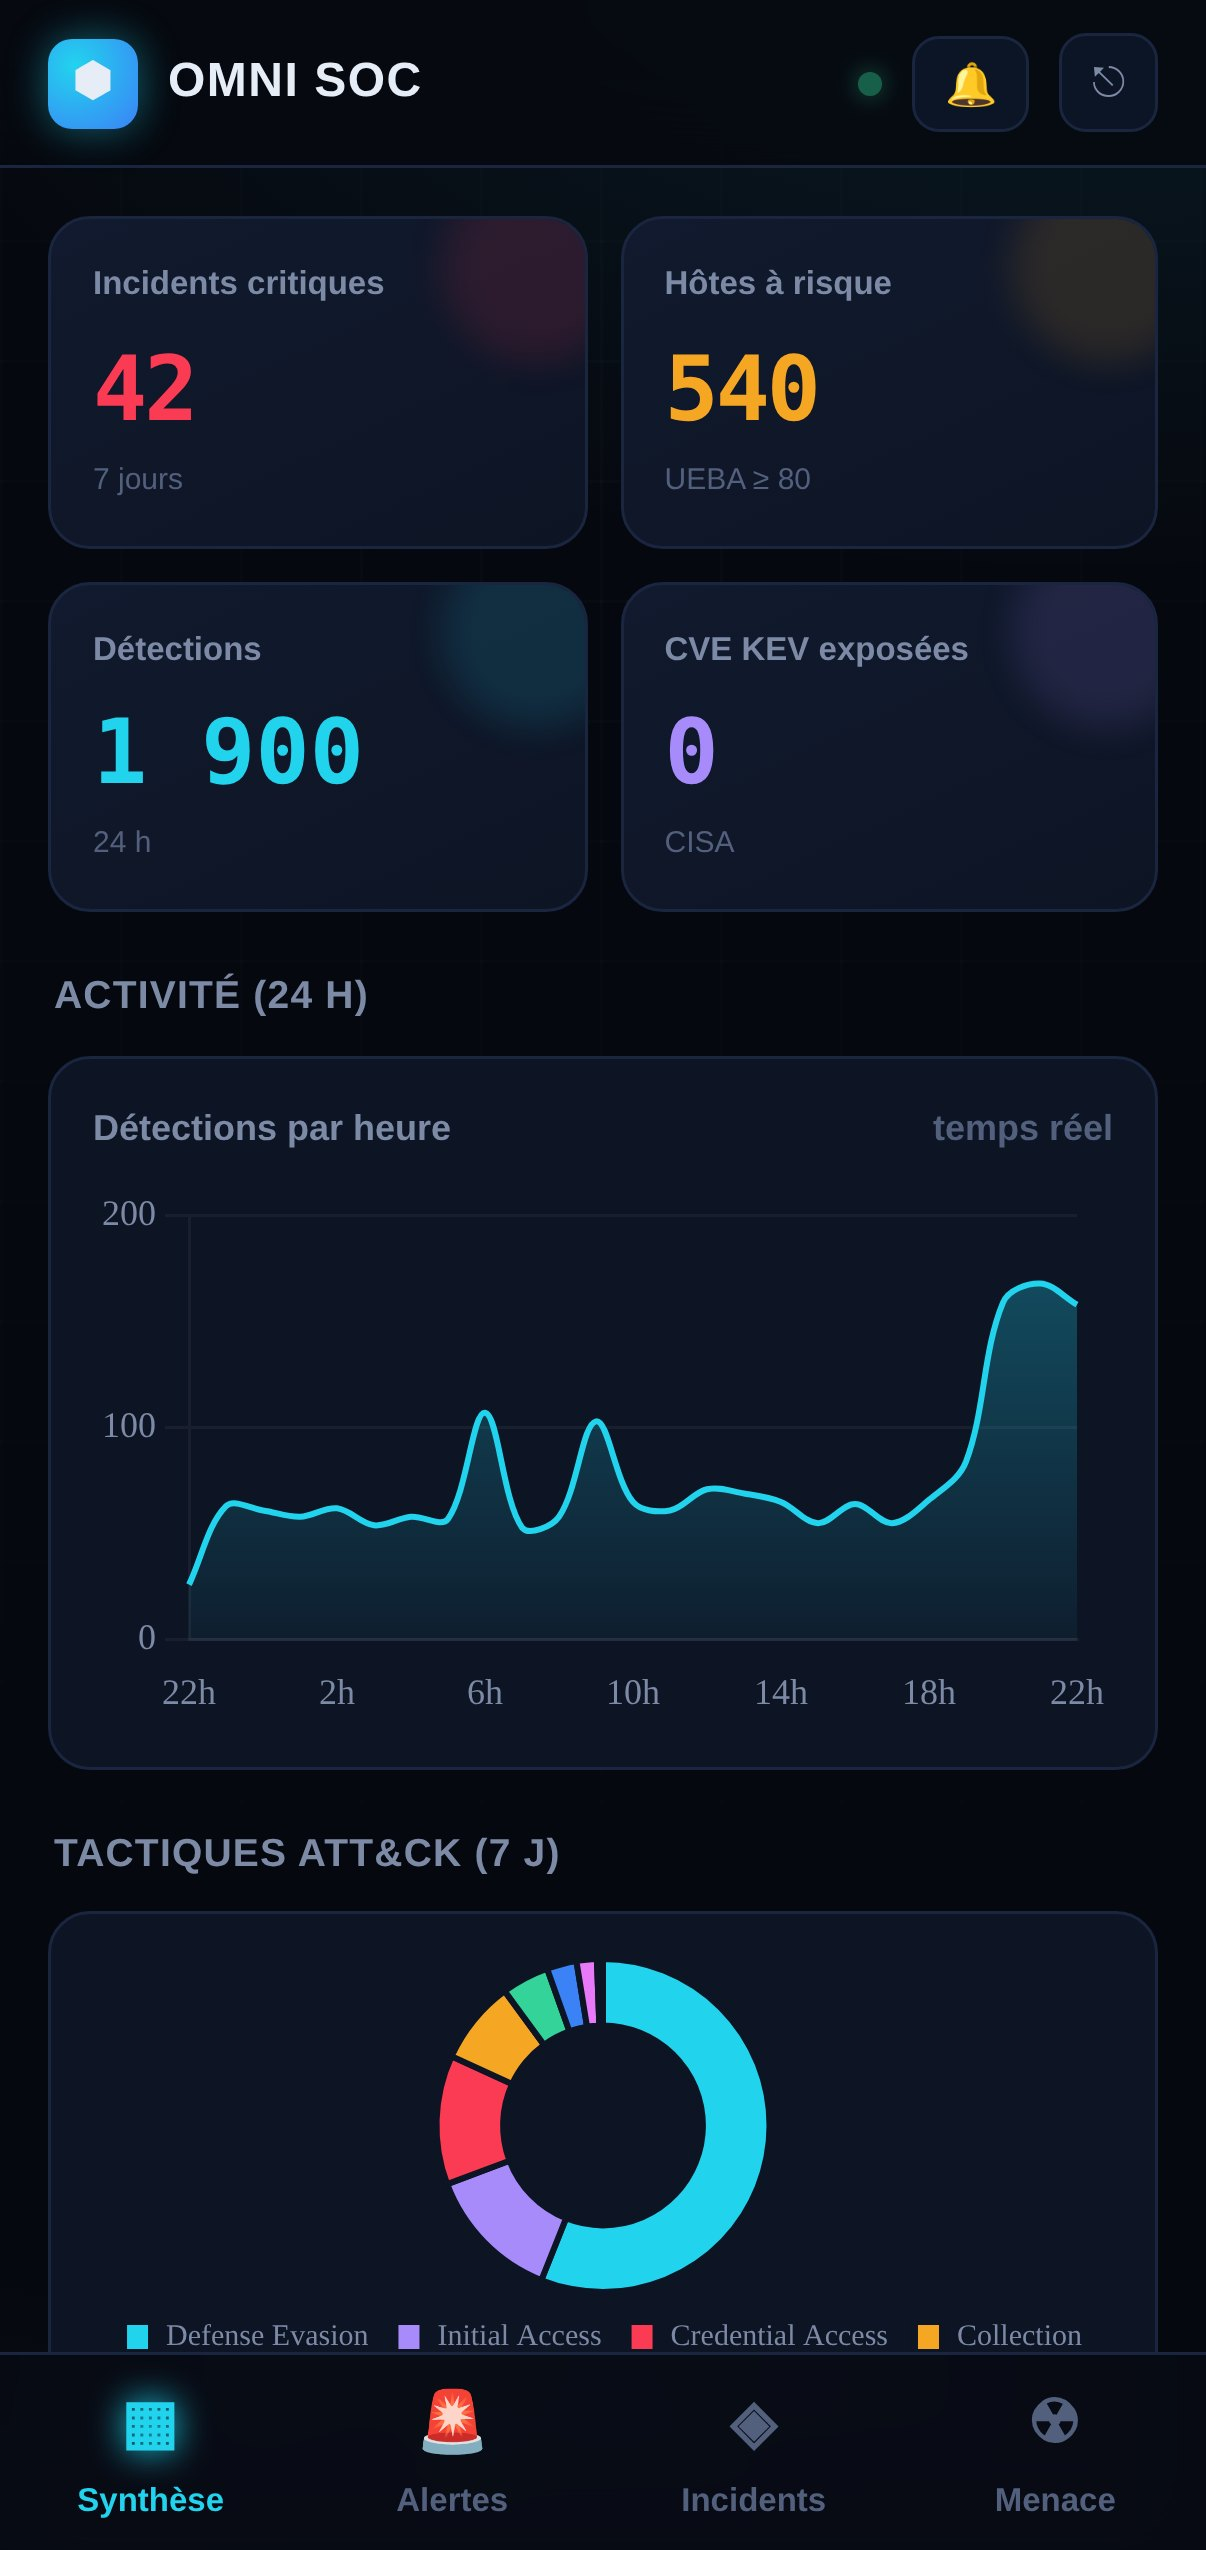
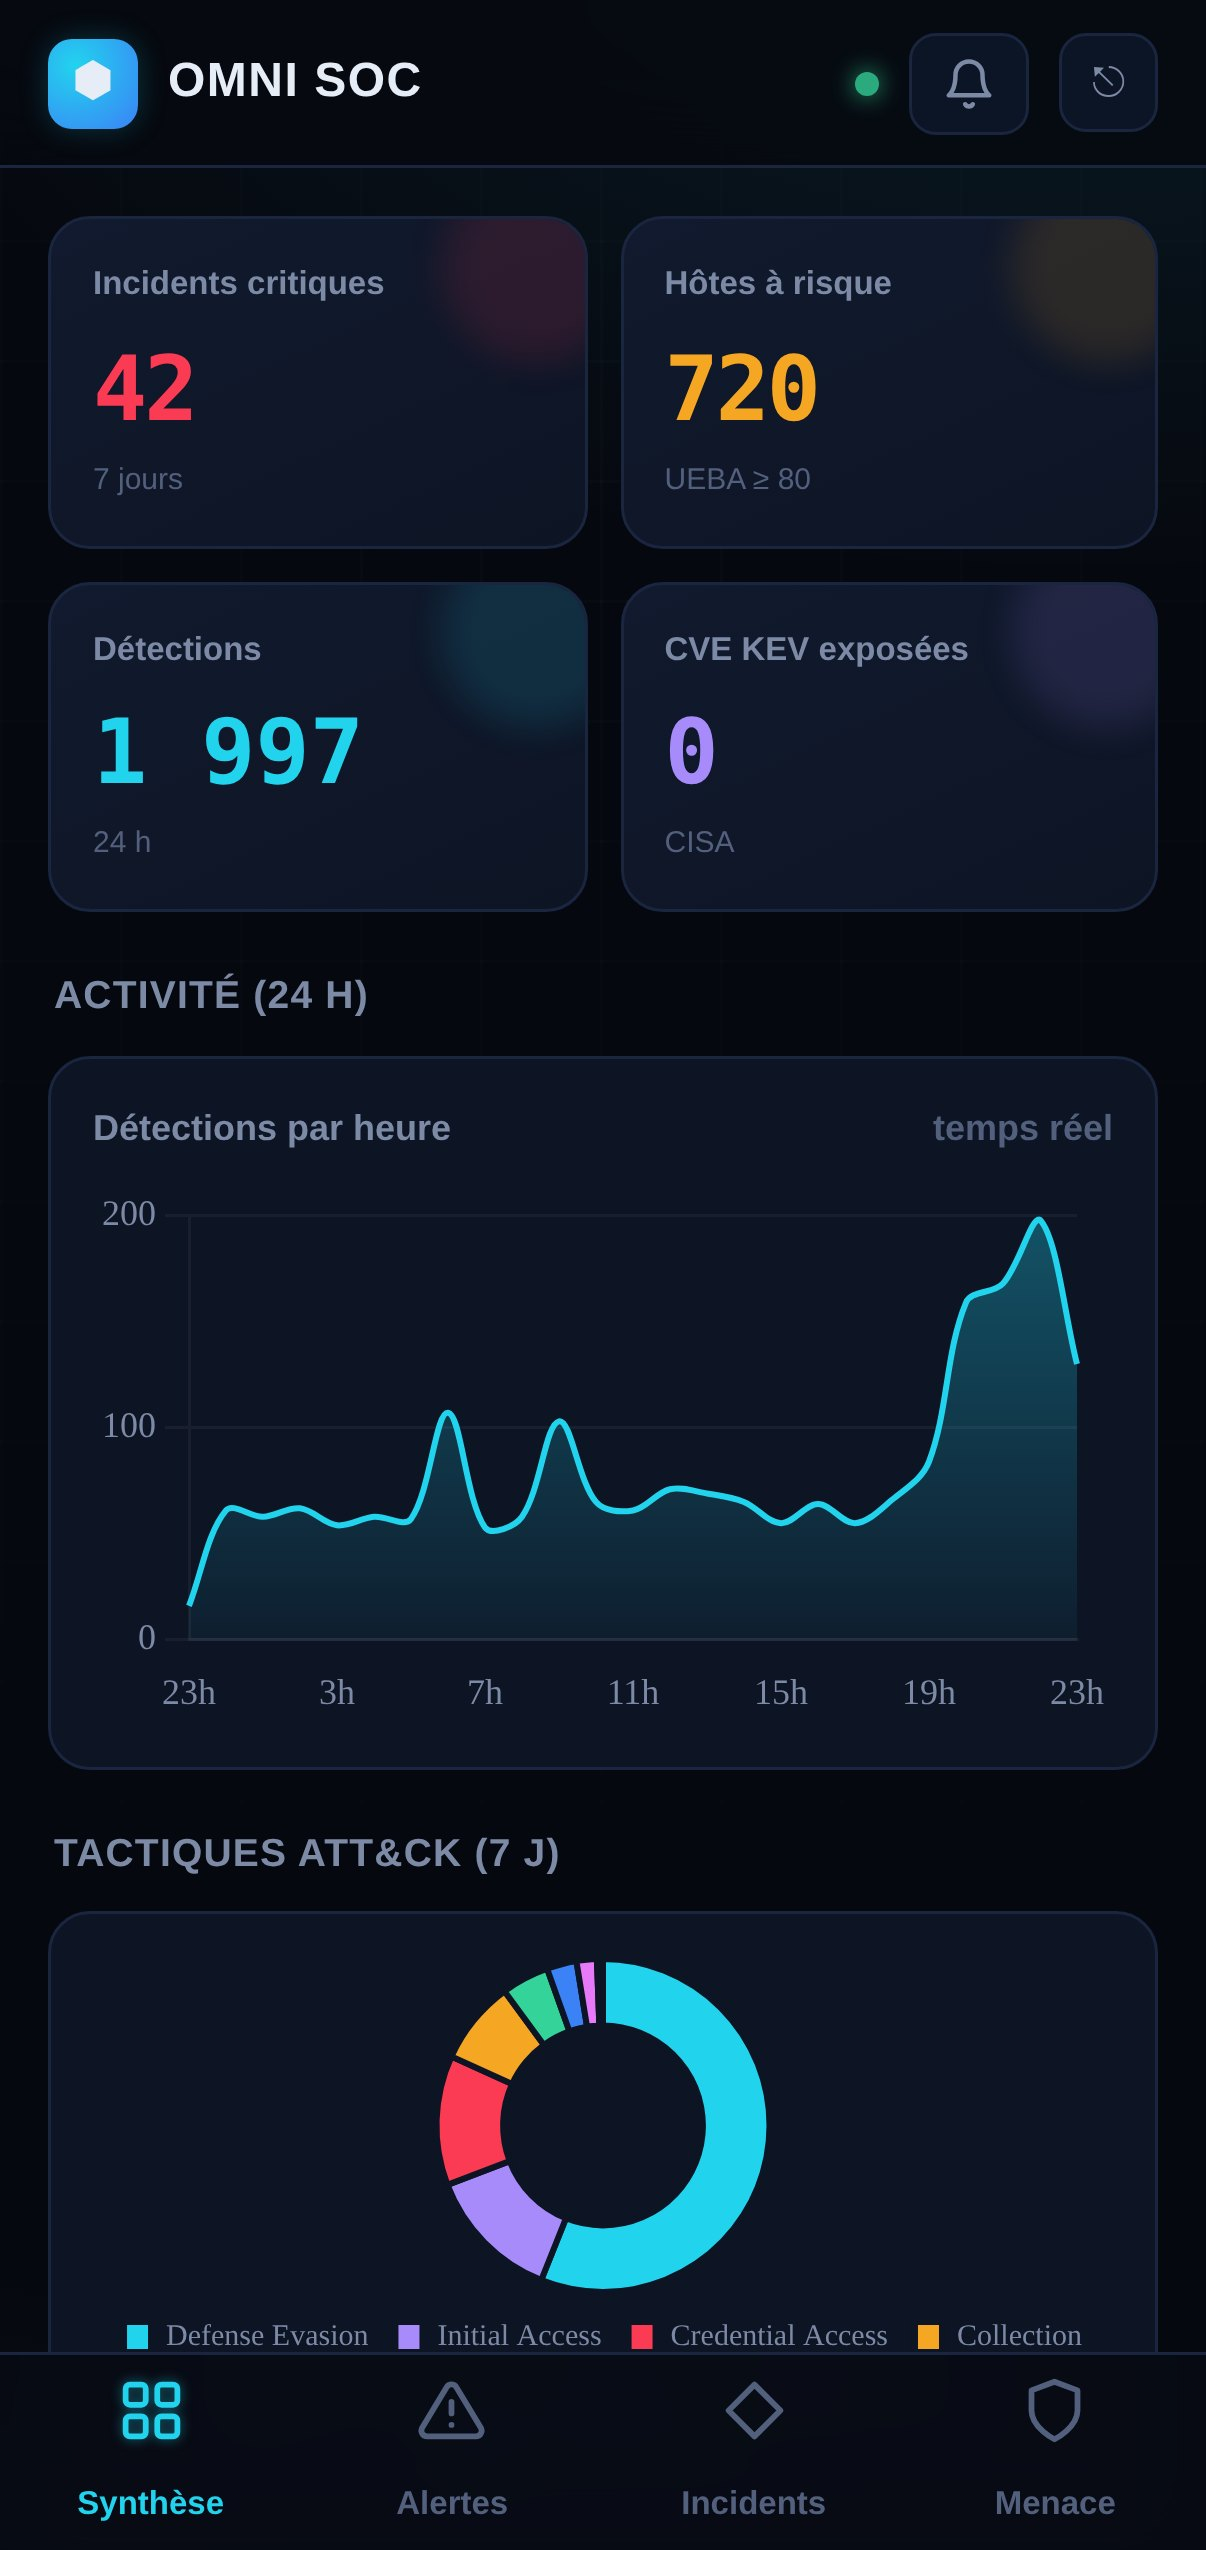
PWA mobile : professionnalisation (emoji -> icones SVG, neon attenue) + captures

diff --git a/mobile/www/index.html b/mobile/www/index.html
@@ -24,13 +24,15 @@
     background-size:40px 40px;mask:radial-gradient(circle at 50% 20%,#000,transparent 95%)}
   .mono{font-family:ui-monospace,'SF Mono',Consolas,monospace}
   .hide{display:none!important}
+  .svi{width:18px;height:18px;stroke:currentColor;fill:none;stroke-width:2;stroke-linecap:round;stroke-linejoin:round;display:inline-block;vertical-align:-3px}
+  nav a .ic .svi{width:23px;height:23px;vertical-align:0}
 
   /* LOGIN */
   #login{position:fixed;inset:0;display:flex;align-items:center;justify-content:center;padding:24px;z-index:10}
   .lcard{width:100%;max-width:360px;background:linear-gradient(180deg,var(--card2),var(--card));
-    border:1px solid var(--bd);border-radius:18px;padding:32px 24px;box-shadow:0 0 60px rgba(34,211,238,.10)}
+    border:1px solid var(--bd);border-radius:18px;padding:32px 24px;box-shadow:0 18px 50px -20px rgba(0,0,0,.7)}
   .logo{width:54px;height:54px;border-radius:14px;margin:0 auto 14px;display:grid;place-items:center;font-size:28px;
-    background:radial-gradient(circle at 30% 30%,var(--cy),var(--blu));box-shadow:0 0 26px rgba(34,211,238,.5)}
+    background:radial-gradient(circle at 30% 30%,var(--cy),var(--blu));box-shadow:0 0 18px rgba(34,211,238,.28)}
   .lcard h1{font-size:22px;text-align:center;letter-spacing:.5px}
   .lcard .sub{color:var(--mut);text-align:center;font-size:12px;margin:4px 0 20px}
   input{width:100%;background:#070b15;border:1px solid var(--bd);border-radius:11px;color:var(--fg);
@@ -46,7 +48,7 @@
     display:flex;align-items:center;gap:10px;background:rgba(6,8,15,.82);backdrop-filter:blur(12px);
     border-bottom:1px solid var(--bd);z-index:5}
   .appbar .mark{width:30px;height:30px;border-radius:8px;display:grid;place-items:center;font-size:16px;
-    background:radial-gradient(circle at 30% 30%,var(--cy),var(--blu));box-shadow:0 0 14px rgba(34,211,238,.45)}
+    background:radial-gradient(circle at 30% 30%,var(--cy),var(--blu));box-shadow:0 0 10px rgba(34,211,238,.22)}
   .appbar b{font-size:16px;letter-spacing:.5px}.spacer{flex:1}
   .dot{width:8px;height:8px;border-radius:50%;background:var(--grn);box-shadow:0 0 8px var(--grn);animation:pulse 2s infinite}
   @keyframes pulse{50%{opacity:.4}}
@@ -96,7 +98,7 @@
   nav a{flex:1;display:flex;flex-direction:column;align-items:center;justify-content:center;gap:3px;
     color:var(--dim);text-decoration:none;font-size:11px;font-weight:600}
   nav a .ic{font-size:20px}
-  nav a.on{color:var(--cy)}nav a.on .ic{filter:drop-shadow(0 0 6px var(--cy))}
+  nav a.on{color:var(--cy)}nav a.on .ic{filter:drop-shadow(0 0 2px rgba(34,211,238,.5))}
 
   /* DETAIL SHEET */
   #sheet{position:fixed;inset:0;z-index:20;display:none}
@@ -137,6 +139,14 @@
 </style>
 </head>
 <body>
+<svg width="0" height="0" style="position:absolute" aria-hidden="true">
+  <symbol id="i-home" viewBox="0 0 24 24"><rect x="3" y="3" width="7" height="7" rx="1.5"/><rect x="14" y="3" width="7" height="7" rx="1.5"/><rect x="3" y="14" width="7" height="7" rx="1.5"/><rect x="14" y="14" width="7" height="7" rx="1.5"/></symbol>
+  <symbol id="i-alert" viewBox="0 0 24 24"><path d="M10.3 3.9 1.8 18a2 2 0 0 0 1.7 3h17a2 2 0 0 0 1.7-3L13.7 3.9a2 2 0 0 0-3.4 0z"/><path d="M12 9v4"/><path d="M12 17h.01"/></symbol>
+  <symbol id="i-inc" viewBox="0 0 24 24"><path d="M12 3 21 12 12 21 3 12z"/></symbol>
+  <symbol id="i-threat" viewBox="0 0 24 24"><path d="M12 22s8-4 8-10V5l-8-3-8 3v7c0 6 8 10 8 10z"/></symbol>
+  <symbol id="i-bell" viewBox="0 0 24 24"><path d="M18 8a6 6 0 0 0-12 0c0 7-3 9-3 9h18s-3-2-3-9"/><path d="M13.7 21a2 2 0 0 1-3.4 0"/></symbol>
+  <symbol id="i-check" viewBox="0 0 24 24"><path d="M20 6 9 17l-5-5"/></symbol>
+</svg>
 <div id="login">
   <form class="lcard" onsubmit="login(event)">
     <div class="logo">⬢</div>
@@ -154,7 +164,7 @@
     <div class="mark">⬢</div><b>OMNI SOC</b>
     <span class="spacer"></span>
     <span class="dot" title="opérationnel"></span>
-    <button class="ibtn" id="pushb" onclick="enablePush()">🔔</button>
+    <button class="ibtn" id="pushb" onclick="enablePush()" aria-label="Activer les notifications"><svg class="svi"><use href="#i-bell"></use></svg></button>
     <button class="ibtn" onclick="logout()">⎋</button>
   </div>
 
@@ -177,10 +187,10 @@
   </main>
 
   <nav id="nav">
-    <a class="on" data-p="home"><span class="ic">▦</span>Synthèse</a>
-    <a data-p="alerts"><span class="ic">🚨</span>Alertes</a>
-    <a data-p="inc"><span class="ic">◈</span>Incidents</a>
-    <a data-p="threat"><span class="ic">☢</span>Menace</a>
+    <a class="on" data-p="home"><span class="ic"><svg class="svi"><use href="#i-home"></use></svg></span>Synthèse</a>
+    <a data-p="alerts"><span class="ic"><svg class="svi"><use href="#i-alert"></use></svg></span>Alertes</a>
+    <a data-p="inc"><span class="ic"><svg class="svi"><use href="#i-inc"></use></svg></span>Incidents</a>
+    <a data-p="threat"><span class="ic"><svg class="svi"><use href="#i-threat"></use></svg></span>Menace</a>
   </nav>
 </div>
 
@@ -188,6 +198,7 @@
 
 <script>
 const API="/m/api",$=s=>document.querySelector(s);
+const ic=n=>'<svg class="svi"><use href="#i-'+n+'"></use></svg>';
 const j=(u,o)=>fetch(API+u,{credentials:"same-origin",...o}).then(r=>{if(r.status===401)throw"auth";return r.json()});
 const esc=s=>(s==null?"":""+s).replace(/[<>&]/g,c=>({"<":"&lt;",">":"&gt;","&":"&amp;"}[c]));
 const nice=s=>esc((s||"").toString().replace(/_/g," ").replace(/\b\w/g,c=>c.toUpperCase()));
@@ -236,7 +247,7 @@ function renderTac(d){mk("cTac",{type:"doughnut",data:{labels:d.map(x=>nice(x.k)
   options:{maintainAspectRatio:false,cutout:"60%",plugins:{legend:{position:"bottom",labels:{boxWidth:9,padding:9,font:{size:10}}}}}});}
 
 function renderFeed(id,list,kind){const el=$("#"+id);
-  if(!list.length){el.innerHTML='<div class="empty">'+(kind==="inc"?"Aucun incident corrélé ✅":"RAS ✅")+'</div>';return;}
+  if(!list.length){el.innerHTML='<div class="empty">'+ic('check')+' '+(kind==="inc"?"Aucun incident corrélé":"RAS")+'</div>';return;}
   el.innerHTML=list.map((x,i)=>{
     const c=kind==="inc"?sevClass(x.severity):(x.priority==3?"critical":x.priority==2?"high":"medium");
     const badge=kind==="inc"?esc((x.severity||"?").toUpperCase()):"P"+(x.priority||"-");
@@ -294,7 +305,7 @@ function renderThreat(r){r=r||{};
   renderRiskList("uebaList",r.ueba_top||[],"ueba");
 }
 function renderRiskList(id,list,kind){const el=$("#"+id);if(!el)return;
-  if(!list.length){el.innerHTML='<div class="empty">Aucune anomalie ✅</div>';return;}
+  if(!list.length){el.innerHTML='<div class="empty">'+ic('check')+' Aucune anomalie</div>';return;}
   el.innerHTML=list.map(x=>{const sc=+x.score||0;
     const sub=kind==="ml"?(x.reason||x.type||""):(x.factor||"");
     return '<div class="rrow"><div class="rtop"><span class="rent">'+esc((x.entity||"—").split("\\").pop())
@@ -303,7 +314,7 @@ function renderRiskList(id,list,kind){const el=$("#"+id);if(!el)return;
       +(sub?'<div class="rsub">'+esc(sub)+'</div>':'')+'</div>';}).join("");}
 function renderDetMini(items){const el=$("#detMini");if(!el)return;
   DETM=items||[];
-  if(!DETM.length){el.innerHTML='<div class="empty">Aucune détection (24 h) ✅</div>';return;}
+  if(!DETM.length){el.innerHTML='<div class="empty">'+ic('check')+' Aucune détection (24 h)</div>';return;}
   el.innerHTML=DETM.slice(0,12).map((x,i)=>{
     const c=x.sev?sevClass(x.sev):(x.priority==3?"critical":x.priority==2?"high":"medium");
     const badge=x.sev?esc((x.sev||"").toUpperCase()):"P"+(x.priority||"-");